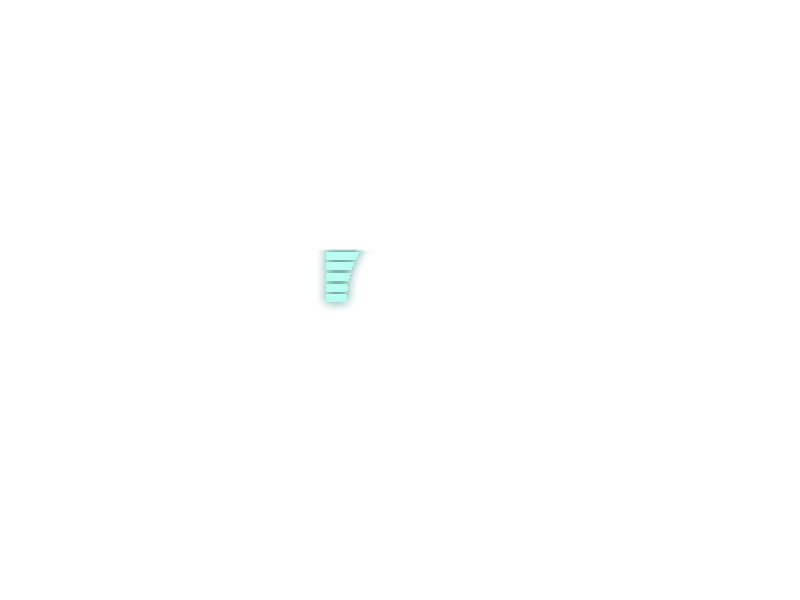
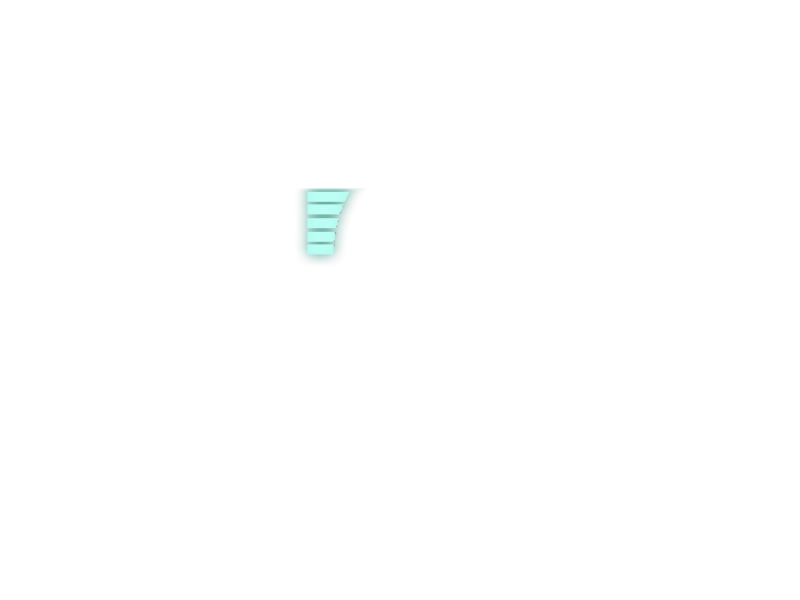
Codec Straight Rips MGS1 Now
its cool as fuck

Changed region(s): [[0.375, 0.3, 0.4688, 0.51]]

diff --git a/Assets/Global Logic/Scripts/Codec.cs b/Assets/Global Logic/Scripts/Codec.cs
@@ -18,10 +18,9 @@ public class Codec : MonoBehaviour
     public AsyncOperation levelLoader;
 
     Texture[] allBars;
-    string[] allLines;
     int[] levelOrder;
-    int currentString;
     int currentPos;
+    Coroutine startCR;
     Coroutine mikeCR;
     Coroutine typingCR;
     int currentLevel;
@@ -30,18 +29,6 @@ public class Codec : MonoBehaviour
     void Awake()
     {
         allBars = new Texture[] { bar1, bar2, bar3, bar4, bar5, bar6, bar7, bar8, bar9 };
-        allLines = new string[] { "I used to be able to keep going with these lines, you know.\nThough whoever coded them got lazy I guess.",
-                                  "I can't let you do that, Starmerry.",
-                                  "Mo has been fired " + Random.Range(500, 50000) + " times, apparently.",
-                                  "Ha ha! This next game will be your end!\nI have no idea what game it is, though, since whoever wrote these lines got too lazy.",
-                                  "Who named this game?\nWhat does Merry Seoul Thoughts even stand for?",
-                                  "I fight for my friends.",
-                                  "Sure is taking you a while to beat this game, huh?\nI'm not even sure you'll finish, at this rate.",
-                                  "Who named these games anyways? It's pretty obvious everything is just ripped off.\nLike, Alley Combatant? Obviously just Stree-",
-                                  "Ban wobbling.",
-                                  "Merry, turn the game console off right now!\nThe mission is a failure! Cut the power right now!",
-                                  "Are you alright?\nSnake?\nSnake!?\nSNAAAAAKE!",
-                                  "Hike Maze died for this." };
         levelOrder = new int[] { 2, 3, 4, 5, 6, 7, 8 };
         for (int i = 0; i < levelOrder.Length; i++)
         {
@@ -58,16 +45,42 @@ public class Codec : MonoBehaviour
         levelLoader = SceneManager.LoadSceneAsync(levelOrder[currentLevel], LoadSceneMode.Single);
         if (currentLevel == 0)
         {
-            selectedLine = "Hello? Is this thing on?\nOh.\nHa Ha! I have finally caught you Merry, and now you must pay, in the form of video games!\nCan you survive? Good luck.";
+            selectedLine = "Start Game";
+        }
+        else if (levelOrder[currentLevel] == 2)
+        {
+            selectedLine = "Density";
+        }
+        else if (levelOrder[currentLevel] == 3)
+        {
+            selectedLine = "Alley Combatant";
+        }
+        else if (levelOrder[currentLevel] == 4)
+        {
+            selectedLine = "Flaming Symbol";
+        }
+        else if (levelOrder[currentLevel] == 5)
+        {
+            selectedLine = "Super Seoul Sisters";
+        }
+        else if (levelOrder[currentLevel] == 6)
+        {
+            selectedLine = "Delve";
+        }
+        else if (levelOrder[currentLevel] == 7)
+        {
+            selectedLine = "Visual Novel";
+        }
+        else if (levelOrder[currentLevel] == 8)
+        {
+            selectedLine = "Western Dentist";
         }
         else if (levelOrder[currentLevel] == 0)
         {
-            selectedLine = ".   .   .\nHuh?\nOh, it's you. You haven't given up yet? The \"Quit to Desktop\" button is right there, you know?\nOh well, looks like I'll have to take matters into my own, pixelated hands!\nYou face the Haze!";
+            selectedLine = "Final Boss";
         }
-        else
-        {
-            selectedLine = allLines[currentString];
-        }
+
+
         if (currentLevel == (levelOrder.Length - 1))
         {
             levelOrder[currentLevel] = 0; //DEBUG, set to boss later
@@ -77,17 +90,13 @@ public class Codec : MonoBehaviour
             currentLevel++;
         }
         transform.Find("Text Line").GetComponent<Text>().text = "";
-        transform.Find("Text Line 2").GetComponent<Text>().text = "";
-        currentString = Random.Range(0, allLines.Length);
         currentPos = 0;
-        mikeCR = StartCoroutine(mikeTalking());
-        typingCR = StartCoroutine(textType());
+        startCR = StartCoroutine(startUp());
     }
 
     void OnDisable()
     {
         transform.Find("Text Line").GetComponent<Text>().text = "";
-        transform.Find("Text Line 2").GetComponent<Text>().text = "";
         currentPos = 0;
     }
 
@@ -97,15 +106,33 @@ public class Codec : MonoBehaviour
         {
             currentPos = selectedLine.Length;
             transform.Find("Text Line").GetComponent<Text>().text = selectedLine;
-            transform.Find("Text Line 2").GetComponent<Text>().text = selectedLine;
         }
+    }
+
+    IEnumerator startUp()
+    {
+        transform.Find("Bar").gameObject.SetActive(true);
+        for (int i = 0; i < 9; i++)
+        {
+            transform.Find("Bar").GetComponent<RawImage>().texture = allBars[i];
+            yield return new WaitForSecondsRealtime(0.1f);
+        }
+        yield return new WaitForSecondsRealtime(1.0f);
+        transform.Find("Portraits Center").gameObject.SetActive(true);
+        for (float t = 0f; t < 1.0f; t += Time.unscaledDeltaTime * 3)
+        {
+            transform.Find("Portraits Center").localScale = new Vector3(1, Mathf.Pow(t, 2), 1);
+            yield return null;
+        }
+        yield return new WaitForSecondsRealtime(1.0f);
+        mikeCR = StartCoroutine(mikeTalking());
+        typingCR = StartCoroutine(textType());
     }
 
     IEnumerator mikeTalking()
     {
-        transform.Find("Bar").gameObject.SetActive(true);
-        transform.Find("Mike Highlight").gameObject.SetActive(!transform.Find("Mike Highlight").gameObject.activeInHierarchy);
-        transform.Find("Bar").GetComponent<RawImage>().texture = allBars[Random.Range(0, 9)];
+        transform.Find("Mike Talk").gameObject.SetActive(!transform.Find("Mike Talk").gameObject.activeInHierarchy);
+        transform.Find("Bar").GetComponent<RawImage>().texture = allBars[Random.Range(5, 9)];
         yield return new WaitForSecondsRealtime(Random.Range(0.1f, 0.5f));
         mikeCR = StartCoroutine(mikeTalking());
     }
@@ -115,16 +142,29 @@ public class Codec : MonoBehaviour
         if (currentPos < selectedLine.Length)
         {
             transform.Find("Text Line").GetComponent<Text>().text += "" + selectedLine[currentPos];
-            transform.Find("Text Line 2").GetComponent<Text>().text += "" + selectedLine[currentPos];
             currentPos++;
             yield return new WaitForSecondsRealtime(0.1f);
             typingCR = StartCoroutine(textType());
         }
         else
         {
-            StopCoroutine(mikeCR);
-            transform.Find("Mike Highlight").gameObject.SetActive(false);
+            if (mikeCR != null)
+            {
+                StopCoroutine(mikeCR);
+            }
+            transform.Find("Mike Talk").gameObject.SetActive(false);
+            for (int i = 0; i < 9; i++)
+            {
+                transform.Find("Bar").GetComponent<RawImage>().texture = allBars[8-i];
+                yield return new WaitForSecondsRealtime(0.1f);
+            }
             transform.Find("Bar").gameObject.SetActive(false);
+            for (float t = 0f; t < 1.0f; t += Time.unscaledDeltaTime * 3)
+            {
+                transform.Find("Portraits Center").localScale = new Vector3(1, Mathf.Pow(1-t, 2), 1);
+                yield return null;
+            }
+            transform.Find("Portraits Center").gameObject.SetActive(false);
             yield return new WaitForSecondsRealtime(3.0f);
             yield return new WaitUntil(() => levelLoader.isDone);
             transform.gameObject.SetActive(false);
@@ -135,9 +175,9 @@ public class Codec : MonoBehaviour
     {
         if (mikeCR != null && typingCR != null)
         {
+            StopCoroutine(startCR);
             StopCoroutine(mikeCR);
             StopCoroutine(typingCR);
         }
-        
     }
 }
